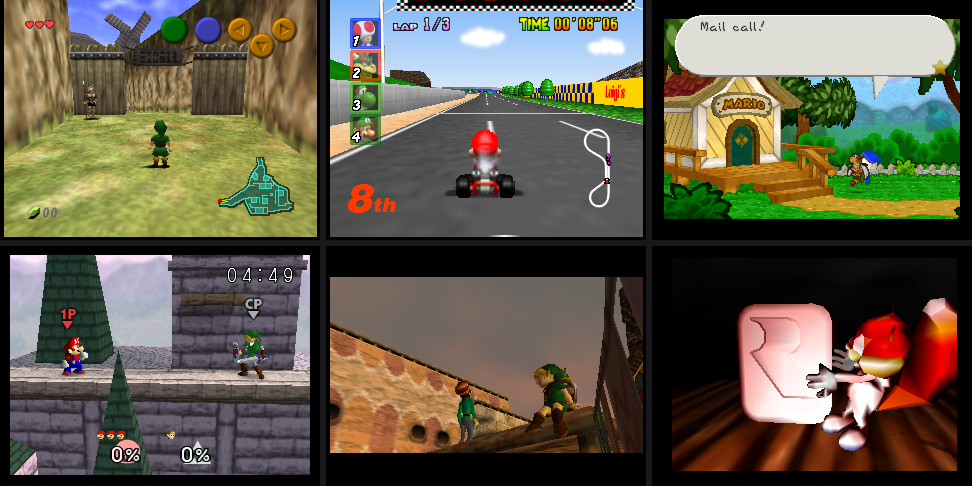
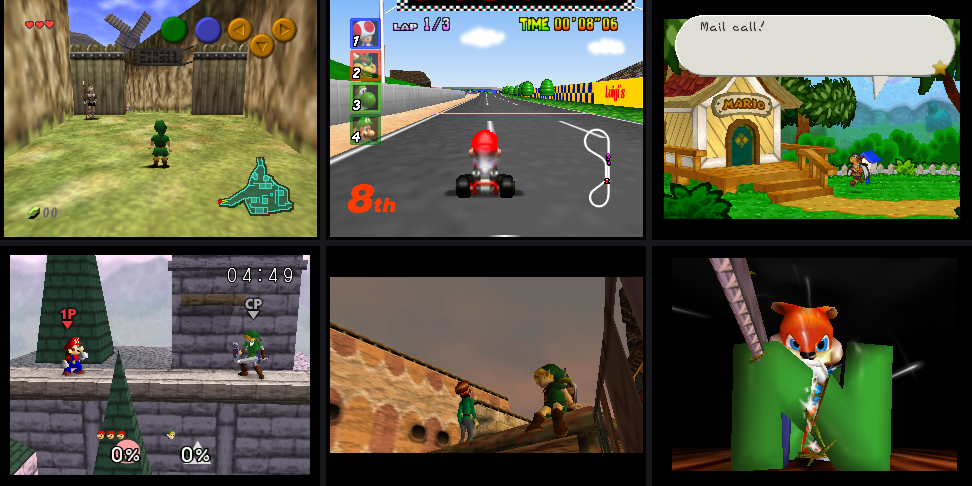
README and screenshots for 0.9.2; Controls footer fits START Game
- README: letter jump and X in the game list, bottom screen in game option,
  two buttons for one N64 button, D-Pad/Circle Pad swap, per-game controls,
  64 MB games loaded whole on New 3DS, controls/ and boxart/ folders
- Screenshots: game list with box art (new), menus on 0.9.2, Conker tile
  with the intro's textures right
- Controls page: footer items closer together while a game runs, so
  "START Game" no longer runs off the screen

Changed region(s): [[0.679, 0.5247, 0.9877, 0.9877], [0.679, 0.6173, 0.7099, 0.6481]]

diff --git a/ctr64/src/menu.c b/ctr64/src/menu.c
@@ -696,10 +696,13 @@ static void draw_footer(void)
     ui_footer_begin();
     g_nfoot = 0;
     int x = 8;
+    /* the controls page has five items while a game runs: closer together, or "START Game" ran
+     * off the screen */
+    const int squeeze = g_page == PAGE_CONTROLS && !g_no_game ? 5 : 0;
 #define FOOT(glyph, label, key)                                                                       \
     do {                                                                                              \
         const int x0 = x;                                                                             \
-        x = ui_footer_button(x, glyph, label, false);                                                 \
+        x = ui_footer_button(x, glyph, label, false) - squeeze;                                       \
         g_foot[g_nfoot++] = (typeof(g_foot[0])){{(s16)(x0 - 6), UI_H - UI_FOOTER_H, (s16)(x - x0), UI_FOOTER_H}, key}; \
     } while (0)
     if (g_page == PAGE_MAIN && g_no_game) {

diff --git a/README.md b/README.md
@@ -10,8 +10,9 @@ Basically this project is mupen64plus-next + gliden64 ported to the 3ds with a c
 
 - **New 3DS / New 2DS XL**: what ive tested on. The CPU emulation, video and audio run on the separate
   cores. Several games run at or close to full speed (Super Mario 64, Ocarina of Time, Paper
-  Mario, Super Smash Bros., Mario Kart 64 and others), with optional 2× anti-aliasing. 64 MB games
-  (Conker's Bad Fur Day) are read from the SD card while they run, as on the Old 3DS below.
+  Mario, Super Smash Bros., Mario Kart 64 and others), with optional 2× anti-aliasing. With the
+  CIA even 64 MB games (Conker's Bad Fur Day) are loaded whole into memory; bigger ROM hacks are
+  read from the SD card while they run, as on the Old 3DS below.
 - **Old 3DS / 2DS**: works, but slower. ctr64 runs in the Old 3DS's 80 MB extended memory mode,
   which leaves room for only the smallest games in memory; most games (Super Mario 64, Mario
   Kart 64, Ocarina of Time, Paper Mario...) are read from the SD card while they run. Their first start reads the whole file once (a progress bar shows
@@ -49,6 +50,8 @@ sdmc:/3ds/ctr64/roms/              your games (.z64 / .n64 / .v64)
 sdmc:/3ds/ctr64/saves/<ROM>.srm    in-game saves (EEPROM, SRAM, FlashRAM, Controller Pak)
 sdmc:/3ds/ctr64/states/<ROM>.stateN  save states, slots 0-9
 sdmc:/3ds/ctr64/settings.txt       settings and button mapping (written by the menu)
+sdmc:/3ds/ctr64/controls/          per-game button mappings (when a game has its own)
+sdmc:/3ds/ctr64/boxart/            downloaded box art
 sdmc:/3ds/ctr64/jit/               per-game lists of compiled code (makes later starts smoother)
 sdmc:/3ds/ctr64/core.log           log of the last session; crash.txt if it crashed
 ```
@@ -60,8 +63,11 @@ both ways (the name must match the ROM's file name).
 
 ![The pause menu, button mapping on the N64 controller picture, and the game list in dark mode](docs/screenshots/menus.png)
 
-The **game list** shows the game titles. Tap a game to select it and tap it again (or press **A**) to start it; **Y** switches
-dark mode on or off; **START** quits.
+![The game list: box art of the selected game on the top screen, the list on the bottom screen](docs/screenshots/gamelist.png)
+
+The **game list** shows the game titles. Tap a game to select it and tap it again (or press **A**) to start it.
+Up/down moves one game, **left/right** jumps to the first game of the previous/next letter (handy
+with a lot of games); **X** opens the settings, **Y** switches dark mode on or off; **START** quits.
 
 The top screen shows the box art of the selected game. With Wi-Fi on, ctr64 downloads the art
 of your games from [libretro-thumbnails](https://github.com/libretro-thumbnails/Nintendo_-_Nintendo_64)
@@ -79,11 +85,16 @@ pauses and opens the menu:
 - **Audio**: volume, sound on or off
 - **Video**: frameskip (Auto by default: it skips drawing only while the game runs behind),
   fps limit, anti-aliasing (New 3DS), screen shape (4:3, stretch, widescreen),
-  **dark mode**, frame buffer emulation and copy mode, and options for threads and compiling
+  **dark mode**, **bottom screen in game** (Menu, Blank, or Off: the backlight goes off; any
+  tap still opens the menu), frame buffer emulation and copy mode, and options for threads and
+  compiling
 - **Controls**: tap a button on the N64 controller picture (or pick it with the D-pad), press A,
-  then the 3DS button you want for it. X clears, Y restores the defaults. On the control stick,
-  A selects the Circle Pad range, which left/right then change. On a New 3DS the C-Stick works
-  for the C buttons in addition to their mapped buttons.
+  then the 3DS button you want for it; hold two 3DS buttons to put it on both (for example
+  shield on L and ZL). X clears, Y resets to the defaults. On the control stick, A selects the
+  Circle Pad range, which left/right then change. On the D-pad, A swaps the 3DS D-Pad and Circle
+  Pad (the D-Pad then works as the stick, nice for racing games). With a game running, **START**
+  saves the controls for just that game (`controls/` folder); START again goes back to the shared
+  ones. On a New 3DS the C-Stick works for the C buttons in addition to their mapped buttons.
 - **Reset**, **Game list**, **Exit**
 
 Default controls:
